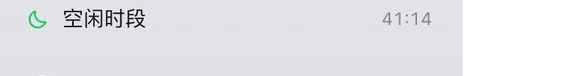
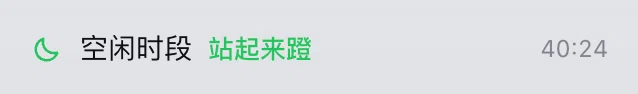
docs: 换上带口号的侧栏截图
- docs/screenshot-sidebar.png：新实拍 638×94，「空闲时段　站起来蹬　40:24」
- README / verification.md：撤掉该图的「摄于口号进侧栏之前」标注
- verification.md 新增一行实测「侧栏口号」，并把数值那行更新为新截图的
  40:24（周六 16:36 → 周一 09:00，与 policy.js 计算逐字吻合）

面板截图仍待替换（仍标注为口号加入之前）。

diff --git a/docs/verification.md b/docs/verification.md
@@ -8,7 +8,8 @@
 | 项 | 结论 |
 | --- | --- |
 | 渲染 | 标记与面板均按设计渲染（截图见下），客户端 bundle 经 HMR 生效，槽位注册成功 |
-| 数值 | 截图倒计时 `41:14` 与 `src/policy.js` 的计算**逐字吻合**（周六 15:46 → 周一 09:00 恰为 41 小时 14 分） |
+| 侧栏口号 | 徽标同一行显示「空闲时段　站起来蹬　40:24」：状态主色、口号状态色、倒计时右对齐 |
+| 数值 | 截图倒计时与 `src/policy.js` 的计算**逐字吻合**：`40:24` = 周六 16:36 → 周一 09:00 |
 | 界面语言 | 切换时刻显示 `10 月 12 日 09:00`（中文日期 + 24 小时制）；修正前是 `10/12, 09:00 AM` |
 | 弹层背景 | 同参数对比度拉伸下：改动前能还原出背后的正文碎片，改动后只剩纯色背景 |
 | 测试 | `node --test test/` — 20 项全绿 |
@@ -27,11 +28,9 @@
 
 ## 截图
 
-侧栏底部的标记（绿色月牙 = 空闲时段，右侧为距下次切换的倒计时）：
+侧栏底部的标记（绿色月牙 = 空闲时段，状态文案旁是绿色口号，右侧为距下次切换的倒计时）：
 
 ![侧栏底部的标记](screenshot-sidebar.png)
-
-<sub>该截图摄于「口号进侧栏」之前：现在是「空闲时段　站起来蹬　41:14」，口号用状态色（空闲绿 / 高峰琥珀）。</sub>
 
 完整窗口（侧栏底部即本插件；已裁掉底部账号区）：
 
